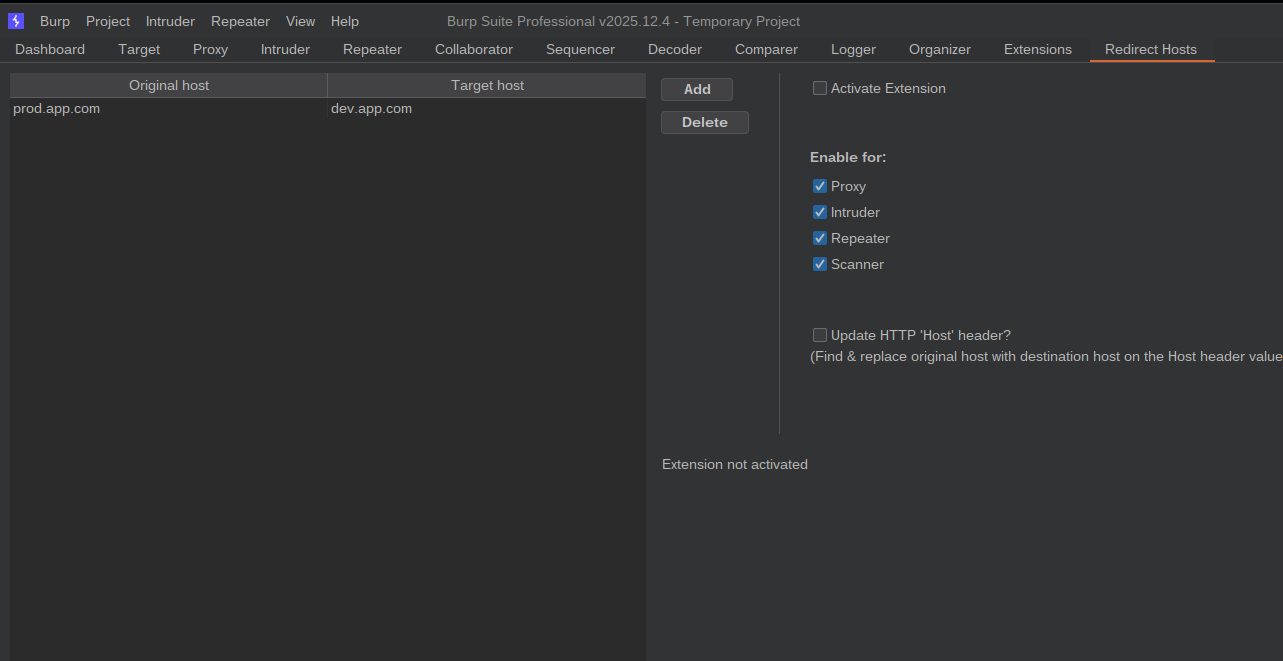
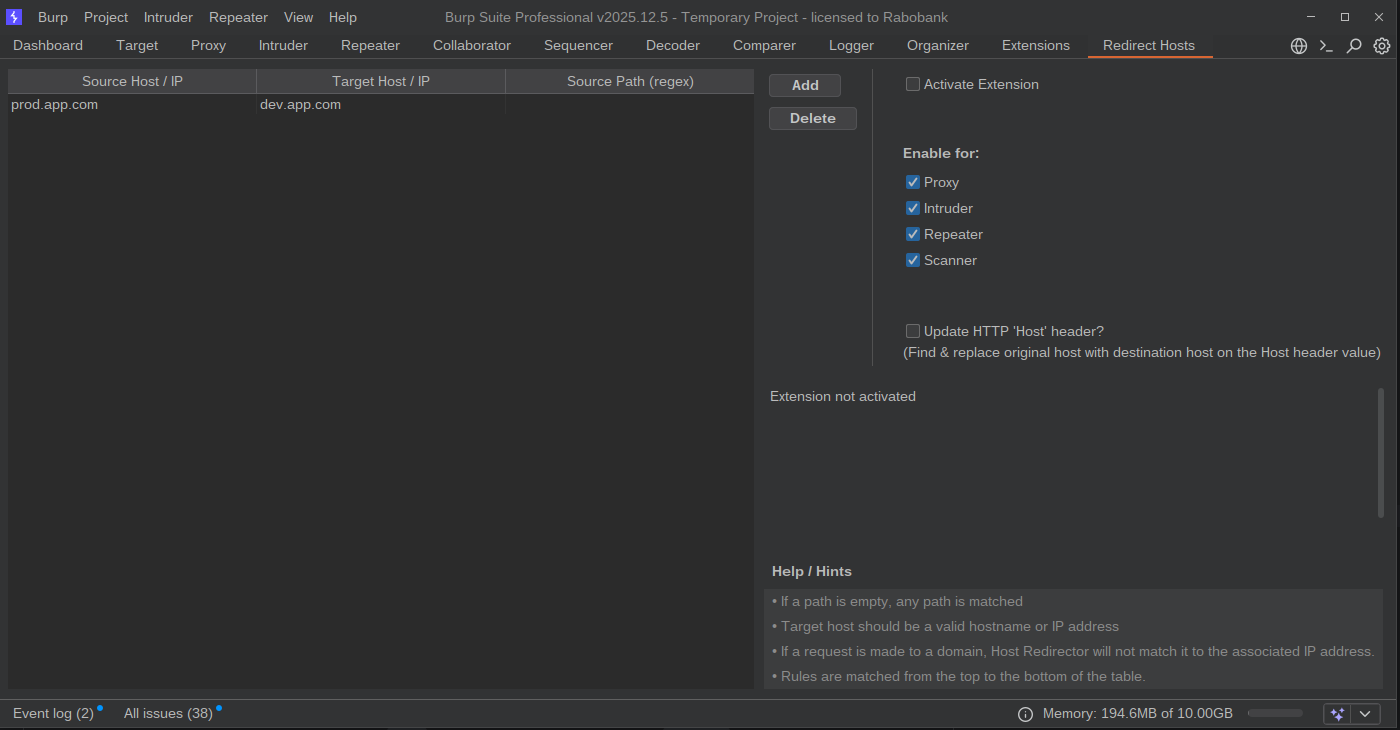
UI improvements; Drop request feature is removed

diff --git a/src/main/java/Extension.java b/src/main/java/Extension.java
@@ -82,7 +82,7 @@ public class Extension implements BurpExtension {
 
         // buttons
         JPanel buttonPanel = new JPanel();
-        buttonPanel.setBorder(new EmptyBorder(5, 5, 5, 20));
+        buttonPanel.setBorder(new EmptyBorder(5, 5, 5, 5));
         buttonPanel.setLayout(new BoxLayout(buttonPanel, BoxLayout.Y_AXIS));
         // add button
         addButton = new JButton("Add");
@@ -107,7 +107,7 @@ public class Extension implements BurpExtension {
         // checklist
         JPanel checkboxPanel = new JPanel();
         checkboxPanel.setLayout(new BoxLayout(checkboxPanel, BoxLayout.Y_AXIS));
-        checkboxPanel.setBorder(new EmptyBorder(5, 20, 5, 100));
+        checkboxPanel.setBorder(new EmptyBorder(5, 20, 5, 5));
         JLabel checklistLabel = new JLabel("Enable for:");
         checklistLabel.setFont(checklistLabel.getFont().deriveFont(Font.BOLD));
         checklistLabel.setAlignmentX(Component.LEFT_ALIGNMENT);
